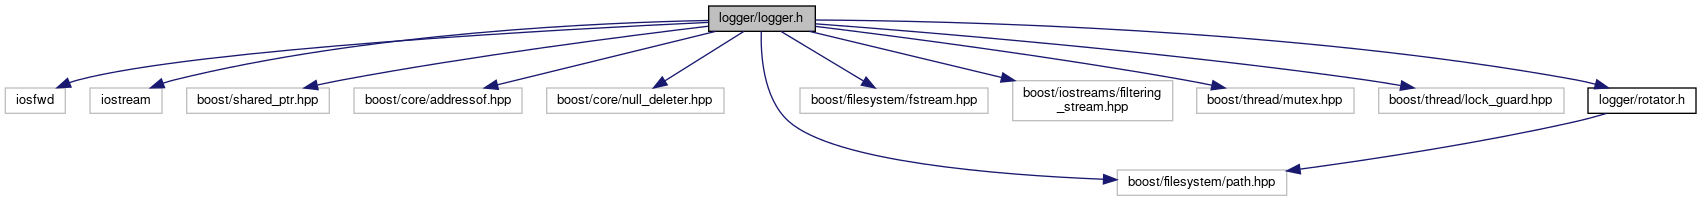
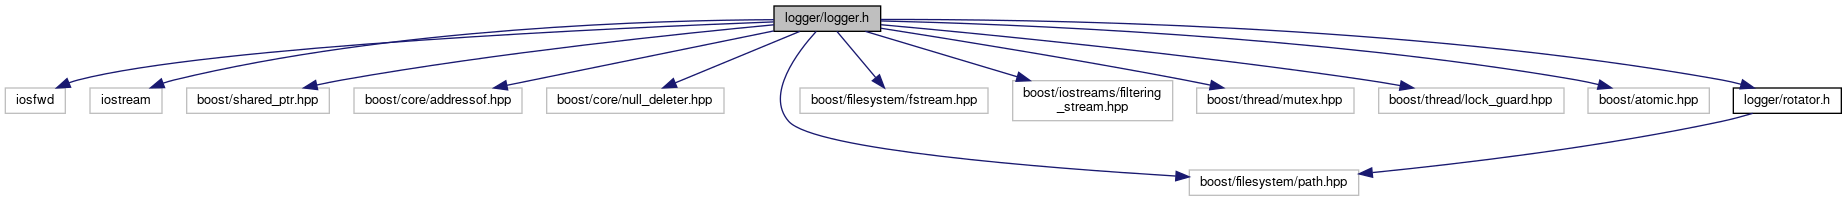
Auto commit

diff --git a/logger_8h_source.html b/logger_8h_source.html
@@ -84,115 +84,116 @@ $(function() {
 <div class="line"><a id="l00015" name="l00015"></a><span class="lineno">   15</span><span class="preprocessor">#include &lt;boost/iostreams/filtering_stream.hpp&gt;</span></div>
 <div class="line"><a id="l00016" name="l00016"></a><span class="lineno">   16</span><span class="preprocessor">#include &lt;boost/thread/mutex.hpp&gt;</span></div>
 <div class="line"><a id="l00017" name="l00017"></a><span class="lineno">   17</span><span class="preprocessor">#include &lt;boost/thread/lock_guard.hpp&gt;</span></div>
-<div class="line"><a id="l00018" name="l00018"></a><span class="lineno">   18</span> </div>
-<div class="line"><a id="l00019" name="l00019"></a><span class="lineno">   19</span><span class="preprocessor">#include &lt;<a class="code" href="rotator_8h.html">logger/rotator.h</a>&gt;</span></div>
-<div class="line"><a id="l00020" name="l00020"></a><span class="lineno">   20</span> </div>
+<div class="line"><a id="l00018" name="l00018"></a><span class="lineno">   18</span><span class="preprocessor">#include &lt;boost/atomic.hpp&gt;</span></div>
+<div class="line"><a id="l00019" name="l00019"></a><span class="lineno">   19</span> </div>
+<div class="line"><a id="l00020" name="l00020"></a><span class="lineno">   20</span><span class="preprocessor">#include &lt;<a class="code" href="rotator_8h.html">logger/rotator.h</a>&gt;</span></div>
 <div class="line"><a id="l00021" name="l00021"></a><span class="lineno">   21</span> </div>
-<div class="line"><a id="l00022" name="l00022"></a><span class="lineno">   22</span><span class="keyword">namespace </span>alexen {</div>
-<div class="line"><a id="l00023" name="l00023"></a><span class="lineno">   23</span><span class="keyword">namespace </span>tiny_logger {</div>
-<div class="line"><a id="l00024" name="l00024"></a><span class="lineno">   24</span> </div>
+<div class="line"><a id="l00022" name="l00022"></a><span class="lineno">   22</span> </div>
+<div class="line"><a id="l00023" name="l00023"></a><span class="lineno">   23</span><span class="keyword">namespace </span>alexen {</div>
+<div class="line"><a id="l00024" name="l00024"></a><span class="lineno">   24</span><span class="keyword">namespace </span>tiny_logger {</div>
 <div class="line"><a id="l00025" name="l00025"></a><span class="lineno">   25</span> </div>
-<div class="line"><a id="l00031" name="l00031"></a><span class="lineno"><a class="line" href="logger_8h.html#aec4cb4747f49b847e8ebcaaf7c097165">   31</a></span><span class="keyword">enum</span> <a class="code hl_enumeration" href="logger_8h.html#aec4cb4747f49b847e8ebcaaf7c097165">Level</a> {</div>
-<div class="line"><a id="l00032" name="l00032"></a><span class="lineno">   32</span>     Debug,</div>
-<div class="line"><a id="l00033" name="l00033"></a><span class="lineno">   33</span>     Info,</div>
-<div class="line"><a id="l00034" name="l00034"></a><span class="lineno">   34</span>     Warn,</div>
-<div class="line"><a id="l00035" name="l00035"></a><span class="lineno">   35</span>     Error</div>
-<div class="line"><a id="l00036" name="l00036"></a><span class="lineno">   36</span>};</div>
-<div class="line"><a id="l00037" name="l00037"></a><span class="lineno">   37</span> </div>
+<div class="line"><a id="l00026" name="l00026"></a><span class="lineno">   26</span> </div>
+<div class="line"><a id="l00032" name="l00032"></a><span class="lineno"><a class="line" href="logger_8h.html#aec4cb4747f49b847e8ebcaaf7c097165">   32</a></span><span class="keyword">enum</span> <a class="code hl_enumeration" href="logger_8h.html#aec4cb4747f49b847e8ebcaaf7c097165">Level</a> {</div>
+<div class="line"><a id="l00033" name="l00033"></a><span class="lineno">   33</span>     Debug,</div>
+<div class="line"><a id="l00034" name="l00034"></a><span class="lineno">   34</span>     Info,</div>
+<div class="line"><a id="l00035" name="l00035"></a><span class="lineno">   35</span>     Warn,</div>
+<div class="line"><a id="l00036" name="l00036"></a><span class="lineno">   36</span>     Error</div>
+<div class="line"><a id="l00037" name="l00037"></a><span class="lineno">   37</span>};</div>
 <div class="line"><a id="l00038" name="l00038"></a><span class="lineno">   38</span> </div>
-<div class="line"><a id="l00044" name="l00044"></a><span class="lineno"><a class="line" href="classalexen_1_1tiny__logger_1_1LoggerRecord.html">   44</a></span><span class="keyword">class </span><a class="code hl_class" href="classalexen_1_1tiny__logger_1_1LoggerRecord.html">LoggerRecord</a> {</div>
-<div class="line"><a id="l00045" name="l00045"></a><span class="lineno">   45</span><span class="keyword">public</span>:</div>
-<div class="line"><a id="l00046" name="l00046"></a><span class="lineno">   46</span>     <a class="code hl_class" href="classalexen_1_1tiny__logger_1_1LoggerRecord.html">LoggerRecord</a>( boost::mutex&amp; m, std::ostream&amp; os, <span class="keyword">const</span> <a class="code hl_enumeration" href="logger_8h.html#aec4cb4747f49b847e8ebcaaf7c097165">Level</a> level );</div>
-<div class="line"><a id="l00047" name="l00047"></a><span class="lineno">   47</span>     <a class="code hl_class" href="classalexen_1_1tiny__logger_1_1LoggerRecord.html">~LoggerRecord</a>();</div>
-<div class="line"><a id="l00048" name="l00048"></a><span class="lineno">   48</span> </div>
-<div class="line"><a id="l00051" name="l00051"></a><span class="lineno">   51</span>     <span class="keyword">template</span>&lt; <span class="keyword">typename</span> T &gt;</div>
-<div class="line"><a id="l00052" name="l00052"></a><span class="lineno"><a class="line" href="classalexen_1_1tiny__logger_1_1LoggerRecord.html#a2beb5517296e1d19a96a37908b32c3c0">   52</a></span>     <a class="code hl_class" href="classalexen_1_1tiny__logger_1_1LoggerRecord.html">LoggerRecord</a>&amp; <a class="code hl_function" href="classalexen_1_1tiny__logger_1_1LoggerRecord.html#a2beb5517296e1d19a96a37908b32c3c0">operator&lt;&lt;</a>( <span class="keyword">const</span> T&amp; value )</div>
-<div class="line"><a id="l00053" name="l00053"></a><span class="lineno">   53</span>     {</div>
-<div class="line"><a id="l00054" name="l00054"></a><span class="lineno">   54</span>          os_ &lt;&lt; value;</div>
-<div class="line"><a id="l00055" name="l00055"></a><span class="lineno">   55</span>          <span class="keywordflow">return</span> *<span class="keyword">this</span>;</div>
-<div class="line"><a id="l00056" name="l00056"></a><span class="lineno">   56</span>     }</div>
-<div class="line"><a id="l00057" name="l00057"></a><span class="lineno">   57</span><span class="keyword">private</span>:</div>
-<div class="line"><a id="l00058" name="l00058"></a><span class="lineno">   58</span>     boost::lock_guard&lt; boost::mutex &gt; lock_;</div>
-<div class="line"><a id="l00059" name="l00059"></a><span class="lineno">   59</span>     std::ostream&amp; os_;</div>
-<div class="line"><a id="l00060" name="l00060"></a><span class="lineno">   60</span>};</div>
-<div class="line"><a id="l00061" name="l00061"></a><span class="lineno">   61</span> </div>
+<div class="line"><a id="l00039" name="l00039"></a><span class="lineno">   39</span> </div>
+<div class="line"><a id="l00045" name="l00045"></a><span class="lineno"><a class="line" href="classalexen_1_1tiny__logger_1_1LoggerRecord.html">   45</a></span><span class="keyword">class </span><a class="code hl_class" href="classalexen_1_1tiny__logger_1_1LoggerRecord.html">LoggerRecord</a> {</div>
+<div class="line"><a id="l00046" name="l00046"></a><span class="lineno">   46</span><span class="keyword">public</span>:</div>
+<div class="line"><a id="l00047" name="l00047"></a><span class="lineno">   47</span>     <a class="code hl_class" href="classalexen_1_1tiny__logger_1_1LoggerRecord.html">LoggerRecord</a>( boost::mutex&amp; m, std::ostream&amp; os, <span class="keyword">const</span> <a class="code hl_enumeration" href="logger_8h.html#aec4cb4747f49b847e8ebcaaf7c097165">Level</a> level );</div>
+<div class="line"><a id="l00048" name="l00048"></a><span class="lineno">   48</span>     <a class="code hl_class" href="classalexen_1_1tiny__logger_1_1LoggerRecord.html">~LoggerRecord</a>();</div>
+<div class="line"><a id="l00049" name="l00049"></a><span class="lineno">   49</span> </div>
+<div class="line"><a id="l00052" name="l00052"></a><span class="lineno">   52</span>     <span class="keyword">template</span>&lt; <span class="keyword">typename</span> T &gt;</div>
+<div class="line"><a id="l00053" name="l00053"></a><span class="lineno"><a class="line" href="classalexen_1_1tiny__logger_1_1LoggerRecord.html#a2beb5517296e1d19a96a37908b32c3c0">   53</a></span>     <a class="code hl_class" href="classalexen_1_1tiny__logger_1_1LoggerRecord.html">LoggerRecord</a>&amp; <a class="code hl_function" href="classalexen_1_1tiny__logger_1_1LoggerRecord.html#a2beb5517296e1d19a96a37908b32c3c0">operator&lt;&lt;</a>( <span class="keyword">const</span> T&amp; value )</div>
+<div class="line"><a id="l00054" name="l00054"></a><span class="lineno">   54</span>     {</div>
+<div class="line"><a id="l00055" name="l00055"></a><span class="lineno">   55</span>          os_ &lt;&lt; value;</div>
+<div class="line"><a id="l00056" name="l00056"></a><span class="lineno">   56</span>          <span class="keywordflow">return</span> *<span class="keyword">this</span>;</div>
+<div class="line"><a id="l00057" name="l00057"></a><span class="lineno">   57</span>     }</div>
+<div class="line"><a id="l00058" name="l00058"></a><span class="lineno">   58</span><span class="keyword">private</span>:</div>
+<div class="line"><a id="l00059" name="l00059"></a><span class="lineno">   59</span>     boost::lock_guard&lt; boost::mutex &gt; lock_;</div>
+<div class="line"><a id="l00060" name="l00060"></a><span class="lineno">   60</span>     std::ostream&amp; os_;</div>
+<div class="line"><a id="l00061" name="l00061"></a><span class="lineno">   61</span>};</div>
 <div class="line"><a id="l00062" name="l00062"></a><span class="lineno">   62</span> </div>
-<div class="line"><a id="l00063" name="l00063"></a><span class="lineno">   63</span><span class="keyword">using</span> OstreamPtr = boost::shared_ptr&lt; std::ostream &gt;;</div>
-<div class="line"><a id="l00064" name="l00064"></a><span class="lineno">   64</span> </div>
+<div class="line"><a id="l00063" name="l00063"></a><span class="lineno">   63</span> </div>
+<div class="line"><a id="l00064" name="l00064"></a><span class="lineno">   64</span><span class="keyword">using</span> OstreamPtr = boost::shared_ptr&lt; std::ostream &gt;;</div>
 <div class="line"><a id="l00065" name="l00065"></a><span class="lineno">   65</span> </div>
-<div class="line"><a id="l00072" name="l00072"></a><span class="lineno"><a class="line" href="logger_8h.html#a1cb844f18013bf389caca06165921eba">   72</a></span><span class="keyword">inline</span> OstreamPtr <a class="code hl_function" href="logger_8h.html#a1cb844f18013bf389caca06165921eba">makeOstreamPtr</a>( std::ostream&amp; os )</div>
-<div class="line"><a id="l00073" name="l00073"></a><span class="lineno">   73</span>{</div>
-<div class="line"><a id="l00074" name="l00074"></a><span class="lineno">   74</span>     <span class="keywordflow">return</span> boost::shared_ptr&lt; std::ostream &gt;{ boost::addressof( os ), boost::null_deleter{} };</div>
-<div class="line"><a id="l00075" name="l00075"></a><span class="lineno">   75</span>}</div>
-<div class="line"><a id="l00076" name="l00076"></a><span class="lineno">   76</span> </div>
+<div class="line"><a id="l00066" name="l00066"></a><span class="lineno">   66</span> </div>
+<div class="line"><a id="l00073" name="l00073"></a><span class="lineno"><a class="line" href="logger_8h.html#a1cb844f18013bf389caca06165921eba">   73</a></span><span class="keyword">inline</span> OstreamPtr <a class="code hl_function" href="logger_8h.html#a1cb844f18013bf389caca06165921eba">makeOstreamPtr</a>( std::ostream&amp; os )</div>
+<div class="line"><a id="l00074" name="l00074"></a><span class="lineno">   74</span>{</div>
+<div class="line"><a id="l00075" name="l00075"></a><span class="lineno">   75</span>     <span class="keywordflow">return</span> boost::shared_ptr&lt; std::ostream &gt;{ boost::addressof( os ), boost::null_deleter{} };</div>
+<div class="line"><a id="l00076" name="l00076"></a><span class="lineno">   76</span>}</div>
 <div class="line"><a id="l00077" name="l00077"></a><span class="lineno">   77</span> </div>
-<div class="line"><a id="l00079" name="l00079"></a><span class="lineno"><a class="line" href="structalexen_1_1tiny__logger_1_1Counter.html">   79</a></span><span class="keyword">struct </span><a class="code hl_struct" href="structalexen_1_1tiny__logger_1_1Counter.html">Counter</a> : boost::iostreams::multichar_output_filter {</div>
-<div class="line"><a id="l00080" name="l00080"></a><span class="lineno">   80</span>     <span class="keyword">explicit</span> <a class="code hl_struct" href="structalexen_1_1tiny__logger_1_1Counter.html">Counter</a>( std::size_t init = 0u ) : chars_{ init } {}</div>
-<div class="line"><a id="l00081" name="l00081"></a><span class="lineno">   81</span> </div>
-<div class="line"><a id="l00082" name="l00082"></a><span class="lineno">   82</span>     <span class="keyword">template</span>&lt; <span class="keyword">typename</span> Sink &gt;</div>
-<div class="line"><a id="l00083" name="l00083"></a><span class="lineno">   83</span>     std::streamsize write( Sink&amp; sink, <span class="keyword">const</span> char_type* s, std::streamsize n )</div>
-<div class="line"><a id="l00084" name="l00084"></a><span class="lineno">   84</span>     {</div>
-<div class="line"><a id="l00085" name="l00085"></a><span class="lineno">   85</span>          <span class="keyword">const</span> <span class="keyword">auto</span> result = boost::iostreams::write( sink, s, n );</div>
-<div class="line"><a id="l00086" name="l00086"></a><span class="lineno">   86</span>          chars_ += result &gt; 0 ? result : 0;</div>
-<div class="line"><a id="l00087" name="l00087"></a><span class="lineno">   87</span>          <span class="keywordflow">return</span> result;</div>
-<div class="line"><a id="l00088" name="l00088"></a><span class="lineno">   88</span>     }</div>
-<div class="line"><a id="l00089" name="l00089"></a><span class="lineno">   89</span> </div>
-<div class="line"><a id="l00090" name="l00090"></a><span class="lineno">   90</span>     std::size_t chars() <span class="keyword">const</span> <span class="keyword">noexcept</span> { <span class="keywordflow">return</span> chars_; }</div>
-<div class="line"><a id="l00091" name="l00091"></a><span class="lineno">   91</span>     <span class="keywordtype">void</span> reset( std::size_t init = 0u ) <span class="keyword">noexcept</span> { chars_ = init; }</div>
-<div class="line"><a id="l00092" name="l00092"></a><span class="lineno">   92</span> </div>
-<div class="line"><a id="l00093" name="l00093"></a><span class="lineno">   93</span><span class="keyword">private</span>:</div>
-<div class="line"><a id="l00094" name="l00094"></a><span class="lineno">   94</span>     std::size_t chars_ = 0;</div>
-<div class="line"><a id="l00095" name="l00095"></a><span class="lineno">   95</span>};</div>
-<div class="line"><a id="l00096" name="l00096"></a><span class="lineno">   96</span> </div>
+<div class="line"><a id="l00078" name="l00078"></a><span class="lineno">   78</span> </div>
+<div class="line"><a id="l00080" name="l00080"></a><span class="lineno"><a class="line" href="structalexen_1_1tiny__logger_1_1Counter.html">   80</a></span><span class="keyword">struct </span><a class="code hl_struct" href="structalexen_1_1tiny__logger_1_1Counter.html">Counter</a> : boost::iostreams::multichar_output_filter {</div>
+<div class="line"><a id="l00081" name="l00081"></a><span class="lineno">   81</span>     <span class="keyword">explicit</span> <a class="code hl_struct" href="structalexen_1_1tiny__logger_1_1Counter.html">Counter</a>( std::size_t init = 0u ) : chars_{ init } {}</div>
+<div class="line"><a id="l00082" name="l00082"></a><span class="lineno">   82</span> </div>
+<div class="line"><a id="l00083" name="l00083"></a><span class="lineno">   83</span>     <span class="keyword">template</span>&lt; <span class="keyword">typename</span> Sink &gt;</div>
+<div class="line"><a id="l00084" name="l00084"></a><span class="lineno">   84</span>     std::streamsize write( Sink&amp; sink, <span class="keyword">const</span> char_type* s, std::streamsize n )</div>
+<div class="line"><a id="l00085" name="l00085"></a><span class="lineno">   85</span>     {</div>
+<div class="line"><a id="l00086" name="l00086"></a><span class="lineno">   86</span>          <span class="keyword">const</span> <span class="keyword">auto</span> result = boost::iostreams::write( sink, s, n );</div>
+<div class="line"><a id="l00087" name="l00087"></a><span class="lineno">   87</span>          chars_ += result &gt; 0 ? result : 0;</div>
+<div class="line"><a id="l00088" name="l00088"></a><span class="lineno">   88</span>          <span class="keywordflow">return</span> result;</div>
+<div class="line"><a id="l00089" name="l00089"></a><span class="lineno">   89</span>     }</div>
+<div class="line"><a id="l00090" name="l00090"></a><span class="lineno">   90</span> </div>
+<div class="line"><a id="l00091" name="l00091"></a><span class="lineno">   91</span>     std::size_t chars() <span class="keyword">const</span> <span class="keyword">noexcept</span> { <span class="keywordflow">return</span> chars_; }</div>
+<div class="line"><a id="l00092" name="l00092"></a><span class="lineno">   92</span>     <span class="keywordtype">void</span> reset( std::size_t init = 0u ) <span class="keyword">noexcept</span> { chars_ = init; }</div>
+<div class="line"><a id="l00093" name="l00093"></a><span class="lineno">   93</span> </div>
+<div class="line"><a id="l00094" name="l00094"></a><span class="lineno">   94</span><span class="keyword">private</span>:</div>
+<div class="line"><a id="l00095" name="l00095"></a><span class="lineno">   95</span>     std::size_t chars_ = 0;</div>
+<div class="line"><a id="l00096" name="l00096"></a><span class="lineno">   96</span>};</div>
 <div class="line"><a id="l00097" name="l00097"></a><span class="lineno">   97</span> </div>
-<div class="line"><a id="l00098" name="l00098"></a><span class="lineno"><a class="line" href="classalexen_1_1tiny__logger_1_1Logger.html">   98</a></span><span class="keyword">class </span><a class="code hl_class" href="classalexen_1_1tiny__logger_1_1Logger.html">Logger</a> {</div>
-<div class="line"><a id="l00099" name="l00099"></a><span class="lineno">   99</span><span class="keyword">public</span>:</div>
-<div class="line"><a id="l00100" name="l00100"></a><span class="lineno">  100</span>     <a class="code hl_class" href="classalexen_1_1tiny__logger_1_1Logger.html">Logger</a>(</div>
-<div class="line"><a id="l00101" name="l00101"></a><span class="lineno">  101</span>          <span class="keyword">const</span> std::string&amp; appName</div>
-<div class="line"><a id="l00102" name="l00102"></a><span class="lineno">  102</span>          , <span class="keyword">const</span> boost::filesystem::path&amp; logDir</div>
-<div class="line"><a id="l00103" name="l00103"></a><span class="lineno">  103</span>          , OstreamPtr console = <a class="code hl_function" href="logger_8h.html#a1cb844f18013bf389caca06165921eba">makeOstreamPtr</a>( std::cerr )</div>
-<div class="line"><a id="l00104" name="l00104"></a><span class="lineno">  104</span>     );</div>
-<div class="line"><a id="l00105" name="l00105"></a><span class="lineno">  105</span> </div>
-<div class="line"><a id="l00107" name="l00107"></a><span class="lineno"><a class="line" href="classalexen_1_1tiny__logger_1_1Logger.html#a16cc846e8c4701dae92d758d0a9c49fb">  107</a></span>     <a class="code hl_class" href="classalexen_1_1tiny__logger_1_1LoggerRecord.html">LoggerRecord</a> <a class="code hl_function" href="classalexen_1_1tiny__logger_1_1Logger.html#a16cc846e8c4701dae92d758d0a9c49fb">operator()</a>( <span class="keyword">const</span> <a class="code hl_enumeration" href="logger_8h.html#aec4cb4747f49b847e8ebcaaf7c097165">Level</a> );</div>
-<div class="line"><a id="l00108" name="l00108"></a><span class="lineno">  108</span> </div>
-<div class="line"><a id="l00110" name="l00110"></a><span class="lineno"><a class="line" href="classalexen_1_1tiny__logger_1_1Logger.html#ab9fddc5dba9c41e61608aaab4e65ee4b">  110</a></span>     <a class="code hl_class" href="classalexen_1_1tiny__logger_1_1LoggerRecord.html">LoggerRecord</a> <a class="code hl_function" href="classalexen_1_1tiny__logger_1_1Logger.html#ab9fddc5dba9c41e61608aaab4e65ee4b">debug</a>() { <span class="keywordflow">return</span> <a class="code hl_function" href="classalexen_1_1tiny__logger_1_1Logger.html#a16cc846e8c4701dae92d758d0a9c49fb">operator()</a>( Debug ); }</div>
-<div class="line"><a id="l00111" name="l00111"></a><span class="lineno">  111</span>     <a class="code hl_class" href="classalexen_1_1tiny__logger_1_1LoggerRecord.html">LoggerRecord</a> info()  { <span class="keywordflow">return</span> <a class="code hl_function" href="classalexen_1_1tiny__logger_1_1Logger.html#a16cc846e8c4701dae92d758d0a9c49fb">operator()</a>( Info ); }</div>
-<div class="line"><a id="l00112" name="l00112"></a><span class="lineno">  112</span>     LoggerRecord warn()  { <span class="keywordflow">return</span> <a class="code hl_function" href="classalexen_1_1tiny__logger_1_1Logger.html#a16cc846e8c4701dae92d758d0a9c49fb">operator()</a>( Warn ); }</div>
-<div class="line"><a id="l00113" name="l00113"></a><span class="lineno">  113</span>     LoggerRecord error() { <span class="keywordflow">return</span> <a class="code hl_function" href="classalexen_1_1tiny__logger_1_1Logger.html#a16cc846e8c4701dae92d758d0a9c49fb">operator()</a>( Error ); }</div>
-<div class="line"><a id="l00114" name="l00114"></a><span class="lineno">  114</span> </div>
-<div class="line"><a id="l00116" name="l00116"></a><span class="lineno"><a class="line" href="classalexen_1_1tiny__logger_1_1Logger.html#aa1ce70435e84a95289f9282447b98a18">  116</a></span>     std::uintmax_t <a class="code hl_function" href="classalexen_1_1tiny__logger_1_1Logger.html#aa1ce70435e84a95289f9282447b98a18">totalRecords</a>() const noexcept { <span class="keywordflow">return</span> totalRecords_; }</div>
-<div class="line"><a id="l00117" name="l00117"></a><span class="lineno">  117</span> </div>
-<div class="line"><a id="l00118" name="l00118"></a><span class="lineno">  118</span><span class="keyword">private</span>:</div>
-<div class="line"><a id="l00119" name="l00119"></a><span class="lineno">  119</span>     <span class="keywordtype">void</span> prepareLogDirectory();</div>
-<div class="line"><a id="l00120" name="l00120"></a><span class="lineno">  120</span>     <span class="keywordtype">void</span> setFilteringStreams();</div>
-<div class="line"><a id="l00121" name="l00121"></a><span class="lineno">  121</span>     <span class="keywordtype">void</span> startLoggingInto( <span class="keyword">const</span> boost::filesystem::path&amp; path );</div>
-<div class="line"><a id="l00122" name="l00122"></a><span class="lineno">  122</span> </div>
-<div class="line"><a id="l00123" name="l00123"></a><span class="lineno">  123</span>     <a class="code hl_class" href="classalexen_1_1tiny__logger_1_1Rotator.html">Rotator</a> rotator_;</div>
-<div class="line"><a id="l00124" name="l00124"></a><span class="lineno">  124</span> </div>
-<div class="line"><a id="l00125" name="l00125"></a><span class="lineno">  125</span>     std::uintmax_t totalRecords_ = 0;</div>
-<div class="line"><a id="l00126" name="l00126"></a><span class="lineno">  126</span> </div>
-<div class="line"><a id="l00129" name="l00129"></a><span class="lineno">  129</span>     OstreamPtr console_;</div>
-<div class="line"><a id="l00130" name="l00130"></a><span class="lineno">  130</span>     boost::filesystem::ofstream ofile_;</div>
-<div class="line"><a id="l00131" name="l00131"></a><span class="lineno">  131</span>     <a class="code hl_struct" href="structalexen_1_1tiny__logger_1_1Counter.html">Counter</a> counter_;</div>
-<div class="line"><a id="l00132" name="l00132"></a><span class="lineno">  132</span>     boost::iostreams::filtering_ostream olog_;</div>
-<div class="line"><a id="l00133" name="l00133"></a><span class="lineno">  133</span> </div>
-<div class="line"><a id="l00134" name="l00134"></a><span class="lineno">  134</span>     boost::mutex mutex_;</div>
-<div class="line"><a id="l00135" name="l00135"></a><span class="lineno">  135</span>};</div>
-<div class="line"><a id="l00136" name="l00136"></a><span class="lineno">  136</span> </div>
+<div class="line"><a id="l00098" name="l00098"></a><span class="lineno">   98</span> </div>
+<div class="line"><a id="l00099" name="l00099"></a><span class="lineno"><a class="line" href="classalexen_1_1tiny__logger_1_1Logger.html">   99</a></span><span class="keyword">class </span><a class="code hl_class" href="classalexen_1_1tiny__logger_1_1Logger.html">Logger</a> {</div>
+<div class="line"><a id="l00100" name="l00100"></a><span class="lineno">  100</span><span class="keyword">public</span>:</div>
+<div class="line"><a id="l00101" name="l00101"></a><span class="lineno">  101</span>     <a class="code hl_class" href="classalexen_1_1tiny__logger_1_1Logger.html">Logger</a>(</div>
+<div class="line"><a id="l00102" name="l00102"></a><span class="lineno">  102</span>          <span class="keyword">const</span> std::string&amp; appName</div>
+<div class="line"><a id="l00103" name="l00103"></a><span class="lineno">  103</span>          , <span class="keyword">const</span> boost::filesystem::path&amp; logDir</div>
+<div class="line"><a id="l00104" name="l00104"></a><span class="lineno">  104</span>          , OstreamPtr console = <a class="code hl_function" href="logger_8h.html#a1cb844f18013bf389caca06165921eba">makeOstreamPtr</a>( std::cerr )</div>
+<div class="line"><a id="l00105" name="l00105"></a><span class="lineno">  105</span>     );</div>
+<div class="line"><a id="l00106" name="l00106"></a><span class="lineno">  106</span> </div>
+<div class="line"><a id="l00108" name="l00108"></a><span class="lineno"><a class="line" href="classalexen_1_1tiny__logger_1_1Logger.html#a16cc846e8c4701dae92d758d0a9c49fb">  108</a></span>     <a class="code hl_class" href="classalexen_1_1tiny__logger_1_1LoggerRecord.html">LoggerRecord</a> <a class="code hl_function" href="classalexen_1_1tiny__logger_1_1Logger.html#a16cc846e8c4701dae92d758d0a9c49fb">operator()</a>( <span class="keyword">const</span> <a class="code hl_enumeration" href="logger_8h.html#aec4cb4747f49b847e8ebcaaf7c097165">Level</a> );</div>
+<div class="line"><a id="l00109" name="l00109"></a><span class="lineno">  109</span> </div>
+<div class="line"><a id="l00111" name="l00111"></a><span class="lineno"><a class="line" href="classalexen_1_1tiny__logger_1_1Logger.html#ab9fddc5dba9c41e61608aaab4e65ee4b">  111</a></span>     <a class="code hl_class" href="classalexen_1_1tiny__logger_1_1LoggerRecord.html">LoggerRecord</a> <a class="code hl_function" href="classalexen_1_1tiny__logger_1_1Logger.html#ab9fddc5dba9c41e61608aaab4e65ee4b">debug</a>() { <span class="keywordflow">return</span> <a class="code hl_function" href="classalexen_1_1tiny__logger_1_1Logger.html#a16cc846e8c4701dae92d758d0a9c49fb">operator()</a>( Debug ); }</div>
+<div class="line"><a id="l00112" name="l00112"></a><span class="lineno">  112</span>     <a class="code hl_class" href="classalexen_1_1tiny__logger_1_1LoggerRecord.html">LoggerRecord</a> info()  { <span class="keywordflow">return</span> <a class="code hl_function" href="classalexen_1_1tiny__logger_1_1Logger.html#a16cc846e8c4701dae92d758d0a9c49fb">operator()</a>( Info ); }</div>
+<div class="line"><a id="l00113" name="l00113"></a><span class="lineno">  113</span>     LoggerRecord warn()  { <span class="keywordflow">return</span> <a class="code hl_function" href="classalexen_1_1tiny__logger_1_1Logger.html#a16cc846e8c4701dae92d758d0a9c49fb">operator()</a>( Warn ); }</div>
+<div class="line"><a id="l00114" name="l00114"></a><span class="lineno">  114</span>     LoggerRecord error() { <span class="keywordflow">return</span> <a class="code hl_function" href="classalexen_1_1tiny__logger_1_1Logger.html#a16cc846e8c4701dae92d758d0a9c49fb">operator()</a>( Error ); }</div>
+<div class="line"><a id="l00115" name="l00115"></a><span class="lineno">  115</span> </div>
+<div class="line"><a id="l00117" name="l00117"></a><span class="lineno"><a class="line" href="classalexen_1_1tiny__logger_1_1Logger.html#aa1ce70435e84a95289f9282447b98a18">  117</a></span>     std::uintmax_t <a class="code hl_function" href="classalexen_1_1tiny__logger_1_1Logger.html#aa1ce70435e84a95289f9282447b98a18">totalRecords</a>() const noexcept { <span class="keywordflow">return</span> totalRecords_.value(); }</div>
+<div class="line"><a id="l00118" name="l00118"></a><span class="lineno">  118</span> </div>
+<div class="line"><a id="l00119" name="l00119"></a><span class="lineno">  119</span><span class="keyword">private</span>:</div>
+<div class="line"><a id="l00120" name="l00120"></a><span class="lineno">  120</span>     <span class="keywordtype">void</span> prepareLogDirectory();</div>
+<div class="line"><a id="l00121" name="l00121"></a><span class="lineno">  121</span>     <span class="keywordtype">void</span> setFilteringStreams();</div>
+<div class="line"><a id="l00122" name="l00122"></a><span class="lineno">  122</span>     <span class="keywordtype">void</span> startLoggingInto( <span class="keyword">const</span> boost::filesystem::path&amp; path );</div>
+<div class="line"><a id="l00123" name="l00123"></a><span class="lineno">  123</span> </div>
+<div class="line"><a id="l00124" name="l00124"></a><span class="lineno">  124</span>     <a class="code hl_class" href="classalexen_1_1tiny__logger_1_1Rotator.html">Rotator</a> rotator_;</div>
+<div class="line"><a id="l00125" name="l00125"></a><span class="lineno">  125</span> </div>
+<div class="line"><a id="l00126" name="l00126"></a><span class="lineno">  126</span>     boost::atomic&lt; std::uintmax_t &gt; totalRecords_ = { 0 };</div>
+<div class="line"><a id="l00127" name="l00127"></a><span class="lineno">  127</span> </div>
+<div class="line"><a id="l00130" name="l00130"></a><span class="lineno">  130</span>     OstreamPtr console_;</div>
+<div class="line"><a id="l00131" name="l00131"></a><span class="lineno">  131</span>     boost::filesystem::ofstream ofile_;</div>
+<div class="line"><a id="l00132" name="l00132"></a><span class="lineno">  132</span>     Counter counter_;</div>
+<div class="line"><a id="l00133" name="l00133"></a><span class="lineno">  133</span>     boost::iostreams::filtering_ostream olog_;</div>
+<div class="line"><a id="l00134" name="l00134"></a><span class="lineno">  134</span> </div>
+<div class="line"><a id="l00135" name="l00135"></a><span class="lineno">  135</span>     boost::mutex mutex_;</div>
+<div class="line"><a id="l00136" name="l00136"></a><span class="lineno">  136</span>};</div>
 <div class="line"><a id="l00137" name="l00137"></a><span class="lineno">  137</span> </div>
-<div class="line"><a id="l00138" name="l00138"></a><span class="lineno">  138</span>} <span class="comment">// namespace tiny_logger</span></div>
-<div class="line"><a id="l00139" name="l00139"></a><span class="lineno">  139</span>} <span class="comment">// namespace alexen</span></div>
-<div class="ttc" id="aclassalexen_1_1tiny__logger_1_1LoggerRecord_html"><div class="ttname"><a href="classalexen_1_1tiny__logger_1_1LoggerRecord.html">alexen::tiny_logger::LoggerRecord</a></div><div class="ttdef"><b>Definition:</b> logger.h:44</div></div>
-<div class="ttc" id="aclassalexen_1_1tiny__logger_1_1LoggerRecord_html_a2beb5517296e1d19a96a37908b32c3c0"><div class="ttname"><a href="classalexen_1_1tiny__logger_1_1LoggerRecord.html#a2beb5517296e1d19a96a37908b32c3c0">alexen::tiny_logger::LoggerRecord::operator&lt;&lt;</a></div><div class="ttdeci">LoggerRecord &amp; operator&lt;&lt;(const T &amp;value)</div><div class="ttdef"><b>Definition:</b> logger.h:52</div></div>
-<div class="ttc" id="aclassalexen_1_1tiny__logger_1_1Logger_html"><div class="ttname"><a href="classalexen_1_1tiny__logger_1_1Logger.html">alexen::tiny_logger::Logger</a></div><div class="ttdef"><b>Definition:</b> logger.h:98</div></div>
+<div class="line"><a id="l00138" name="l00138"></a><span class="lineno">  138</span> </div>
+<div class="line"><a id="l00139" name="l00139"></a><span class="lineno">  139</span>} <span class="comment">// namespace tiny_logger</span></div>
+<div class="line"><a id="l00140" name="l00140"></a><span class="lineno">  140</span>} <span class="comment">// namespace alexen</span></div>
+<div class="ttc" id="aclassalexen_1_1tiny__logger_1_1LoggerRecord_html"><div class="ttname"><a href="classalexen_1_1tiny__logger_1_1LoggerRecord.html">alexen::tiny_logger::LoggerRecord</a></div><div class="ttdef"><b>Definition:</b> logger.h:45</div></div>
+<div class="ttc" id="aclassalexen_1_1tiny__logger_1_1LoggerRecord_html_a2beb5517296e1d19a96a37908b32c3c0"><div class="ttname"><a href="classalexen_1_1tiny__logger_1_1LoggerRecord.html#a2beb5517296e1d19a96a37908b32c3c0">alexen::tiny_logger::LoggerRecord::operator&lt;&lt;</a></div><div class="ttdeci">LoggerRecord &amp; operator&lt;&lt;(const T &amp;value)</div><div class="ttdef"><b>Definition:</b> logger.h:53</div></div>
+<div class="ttc" id="aclassalexen_1_1tiny__logger_1_1Logger_html"><div class="ttname"><a href="classalexen_1_1tiny__logger_1_1Logger.html">alexen::tiny_logger::Logger</a></div><div class="ttdef"><b>Definition:</b> logger.h:99</div></div>
 <div class="ttc" id="aclassalexen_1_1tiny__logger_1_1Logger_html_a16cc846e8c4701dae92d758d0a9c49fb"><div class="ttname"><a href="classalexen_1_1tiny__logger_1_1Logger.html#a16cc846e8c4701dae92d758d0a9c49fb">alexen::tiny_logger::Logger::operator()</a></div><div class="ttdeci">LoggerRecord operator()(const Level)</div><div class="ttdoc">Основной метод вывода в лог с указанием уровня логгирования</div></div>
-<div class="ttc" id="aclassalexen_1_1tiny__logger_1_1Logger_html_aa1ce70435e84a95289f9282447b98a18"><div class="ttname"><a href="classalexen_1_1tiny__logger_1_1Logger.html#aa1ce70435e84a95289f9282447b98a18">alexen::tiny_logger::Logger::totalRecords</a></div><div class="ttdeci">std::uintmax_t totalRecords() const noexcept</div><div class="ttdoc">Возвращает кол-во LogRecord, сделанных за время жизни Logger.</div><div class="ttdef"><b>Definition:</b> logger.h:116</div></div>
-<div class="ttc" id="aclassalexen_1_1tiny__logger_1_1Logger_html_ab9fddc5dba9c41e61608aaab4e65ee4b"><div class="ttname"><a href="classalexen_1_1tiny__logger_1_1Logger.html#ab9fddc5dba9c41e61608aaab4e65ee4b">alexen::tiny_logger::Logger::debug</a></div><div class="ttdeci">LoggerRecord debug()</div><div class="ttdoc">Вспомогательные методы вывода в лог для упрощения кода</div><div class="ttdef"><b>Definition:</b> logger.h:110</div></div>
+<div class="ttc" id="aclassalexen_1_1tiny__logger_1_1Logger_html_aa1ce70435e84a95289f9282447b98a18"><div class="ttname"><a href="classalexen_1_1tiny__logger_1_1Logger.html#aa1ce70435e84a95289f9282447b98a18">alexen::tiny_logger::Logger::totalRecords</a></div><div class="ttdeci">std::uintmax_t totalRecords() const noexcept</div><div class="ttdoc">Возвращает кол-во LogRecord, сделанных за время жизни Logger.</div><div class="ttdef"><b>Definition:</b> logger.h:117</div></div>
+<div class="ttc" id="aclassalexen_1_1tiny__logger_1_1Logger_html_ab9fddc5dba9c41e61608aaab4e65ee4b"><div class="ttname"><a href="classalexen_1_1tiny__logger_1_1Logger.html#ab9fddc5dba9c41e61608aaab4e65ee4b">alexen::tiny_logger::Logger::debug</a></div><div class="ttdeci">LoggerRecord debug()</div><div class="ttdoc">Вспомогательные методы вывода в лог для упрощения кода</div><div class="ttdef"><b>Definition:</b> logger.h:111</div></div>
 <div class="ttc" id="aclassalexen_1_1tiny__logger_1_1Rotator_html"><div class="ttname"><a href="classalexen_1_1tiny__logger_1_1Rotator.html">alexen::tiny_logger::Rotator</a></div><div class="ttdef"><b>Definition:</b> rotator.h:23</div></div>
-<div class="ttc" id="alogger_8h_html_a1cb844f18013bf389caca06165921eba"><div class="ttname"><a href="logger_8h.html#a1cb844f18013bf389caca06165921eba">alexen::tiny_logger::makeOstreamPtr</a></div><div class="ttdeci">OstreamPtr makeOstreamPtr(std::ostream &amp;os)</div><div class="ttdef"><b>Definition:</b> logger.h:72</div></div>
-<div class="ttc" id="alogger_8h_html_aec4cb4747f49b847e8ebcaaf7c097165"><div class="ttname"><a href="logger_8h.html#aec4cb4747f49b847e8ebcaaf7c097165">alexen::tiny_logger::Level</a></div><div class="ttdeci">Level</div><div class="ttdef"><b>Definition:</b> logger.h:31</div></div>
+<div class="ttc" id="alogger_8h_html_a1cb844f18013bf389caca06165921eba"><div class="ttname"><a href="logger_8h.html#a1cb844f18013bf389caca06165921eba">alexen::tiny_logger::makeOstreamPtr</a></div><div class="ttdeci">OstreamPtr makeOstreamPtr(std::ostream &amp;os)</div><div class="ttdef"><b>Definition:</b> logger.h:73</div></div>
+<div class="ttc" id="alogger_8h_html_aec4cb4747f49b847e8ebcaaf7c097165"><div class="ttname"><a href="logger_8h.html#aec4cb4747f49b847e8ebcaaf7c097165">alexen::tiny_logger::Level</a></div><div class="ttdeci">Level</div><div class="ttdef"><b>Definition:</b> logger.h:32</div></div>
 <div class="ttc" id="arotator_8h_html"><div class="ttname"><a href="rotator_8h.html">rotator.h</a></div></div>
-<div class="ttc" id="astructalexen_1_1tiny__logger_1_1Counter_html"><div class="ttname"><a href="structalexen_1_1tiny__logger_1_1Counter.html">alexen::tiny_logger::Counter</a></div><div class="ttdoc">Фильтр для подсчета кол-во записанных в поток байт</div><div class="ttdef"><b>Definition:</b> logger.h:79</div></div>
+<div class="ttc" id="astructalexen_1_1tiny__logger_1_1Counter_html"><div class="ttname"><a href="structalexen_1_1tiny__logger_1_1Counter.html">alexen::tiny_logger::Counter</a></div><div class="ttdoc">Фильтр для подсчета кол-во записанных в поток байт</div><div class="ttdef"><b>Definition:</b> logger.h:80</div></div>
 </div><!-- fragment --></div><!-- contents -->
 <!-- start footer part -->
 <hr class="footer"/><address class="footer"><small>

diff --git a/logger_8h.html b/logger_8h.html
@@ -84,24 +84,26 @@ $(function() {
 <code>#include &lt;boost/iostreams/filtering_stream.hpp&gt;</code><br />
 <code>#include &lt;boost/thread/mutex.hpp&gt;</code><br />
 <code>#include &lt;boost/thread/lock_guard.hpp&gt;</code><br />
+<code>#include &lt;boost/atomic.hpp&gt;</code><br />
 <code>#include &lt;<a class="el" href="rotator_8h_source.html">logger/rotator.h</a>&gt;</code><br />
 </div><div class="textblock"><div class="dynheader">
 Граф включаемых заголовочных файлов для logger.h:</div>
 <div class="dyncontent">
 <div class="center"><img src="logger_8h__incl.png" border="0" usemap="#alogger_2logger_8h" alt=""/></div>
 <map name="alogger_2logger_8h" id="alogger_2logger_8h">
-<area shape="rect" title=" " alt="" coords="709,5,815,32"/>
+<area shape="rect" title=" " alt="" coords="774,5,881,32"/>
 <area shape="rect" title=" " alt="" coords="5,87,65,114"/>
 <area shape="rect" title=" " alt="" coords="90,87,162,114"/>
 <area shape="rect" title=" " alt="" coords="187,87,329,114"/>
 <area shape="rect" title=" " alt="" coords="354,87,522,114"/>
 <area shape="rect" title=" " alt="" coords="547,87,724,114"/>
-<area shape="rect" title=" " alt="" coords="1117,169,1287,196"/>
+<area shape="rect" title=" " alt="" coords="1189,169,1359,196"/>
 <area shape="rect" title=" " alt="" coords="800,87,988,114"/>
 <area shape="rect" title=" " alt="" coords="1013,80,1173,121"/>
 <area shape="rect" title=" " alt="" coords="1197,87,1354,114"/>
 <area shape="rect" title=" " alt="" coords="1379,87,1564,114"/>
-<area shape="rect" href="rotator_8h.html" title=" " alt="" coords="1588,87,1696,114"/>
+<area shape="rect" title=" " alt="" coords="1588,87,1709,114"/>
+<area shape="rect" href="rotator_8h.html" title=" " alt="" coords="1733,87,1841,114"/>
 </map>
 </div>
 </div><div class="textblock"><div class="dynheader">

diff --git a/macro_8h.html b/macro_8h.html
@@ -85,7 +85,7 @@ $(function() {
 <area shape="rect" title=" " alt="" coords="5,80,93,107"/>
 <area shape="rect" title=" " alt="" coords="117,80,243,107"/>
 <area shape="rect" title=" " alt="" coords="246,244,415,271"/>
-<area shape="rect" href="logger_8h.html" title=" " alt="" coords="847,80,953,107"/>
+<area shape="rect" href="logger_8h.html" title=" " alt="" coords="945,80,1052,107"/>
 <area shape="rect" title=" " alt="" coords="369,162,429,189"/>
 <area shape="rect" title=" " alt="" coords="453,162,525,189"/>
 <area shape="rect" title=" " alt="" coords="550,162,693,189"/>
@@ -95,7 +95,8 @@ $(function() {
 <area shape="rect" title=" " alt="" coords="1324,155,1484,196"/>
 <area shape="rect" title=" " alt="" coords="1508,162,1665,189"/>
 <area shape="rect" title=" " alt="" coords="1690,162,1875,189"/>
-<area shape="rect" href="rotator_8h.html" title=" " alt="" coords="1899,162,2007,189"/>
+<area shape="rect" title=" " alt="" coords="1899,162,2021,189"/>
+<area shape="rect" href="rotator_8h.html" title=" " alt="" coords="2045,162,2153,189"/>
 </map>
 </div>
 </div>
